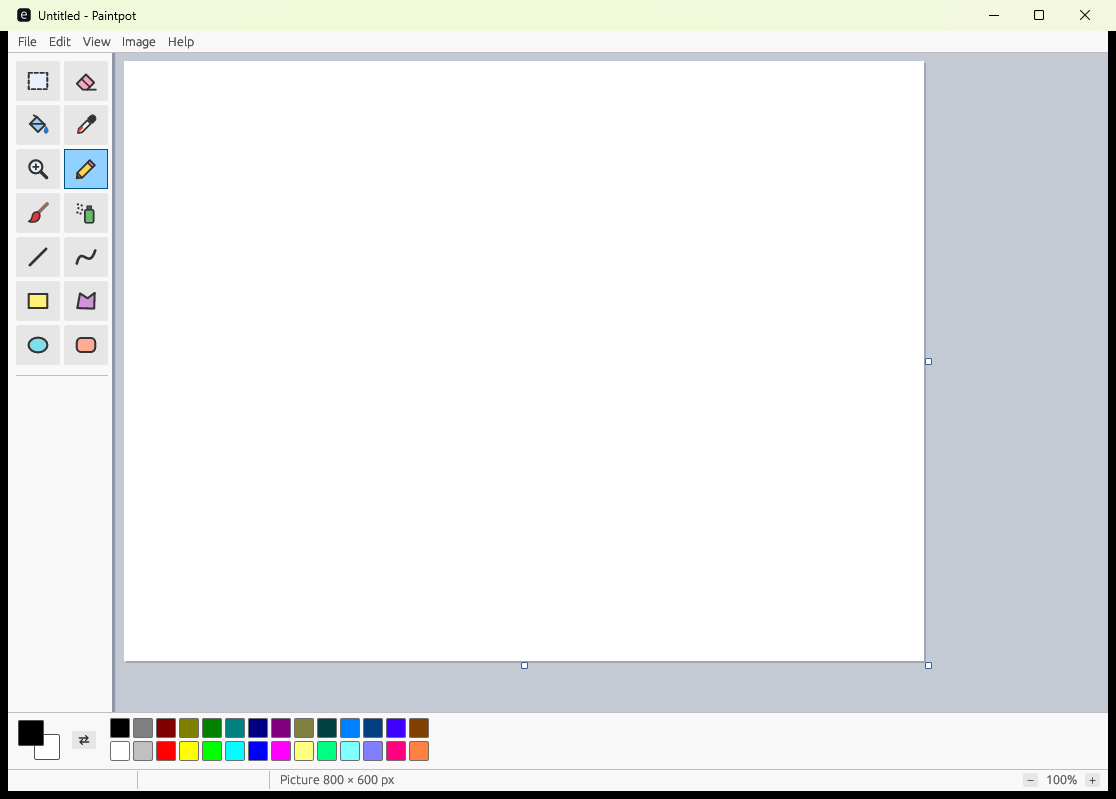
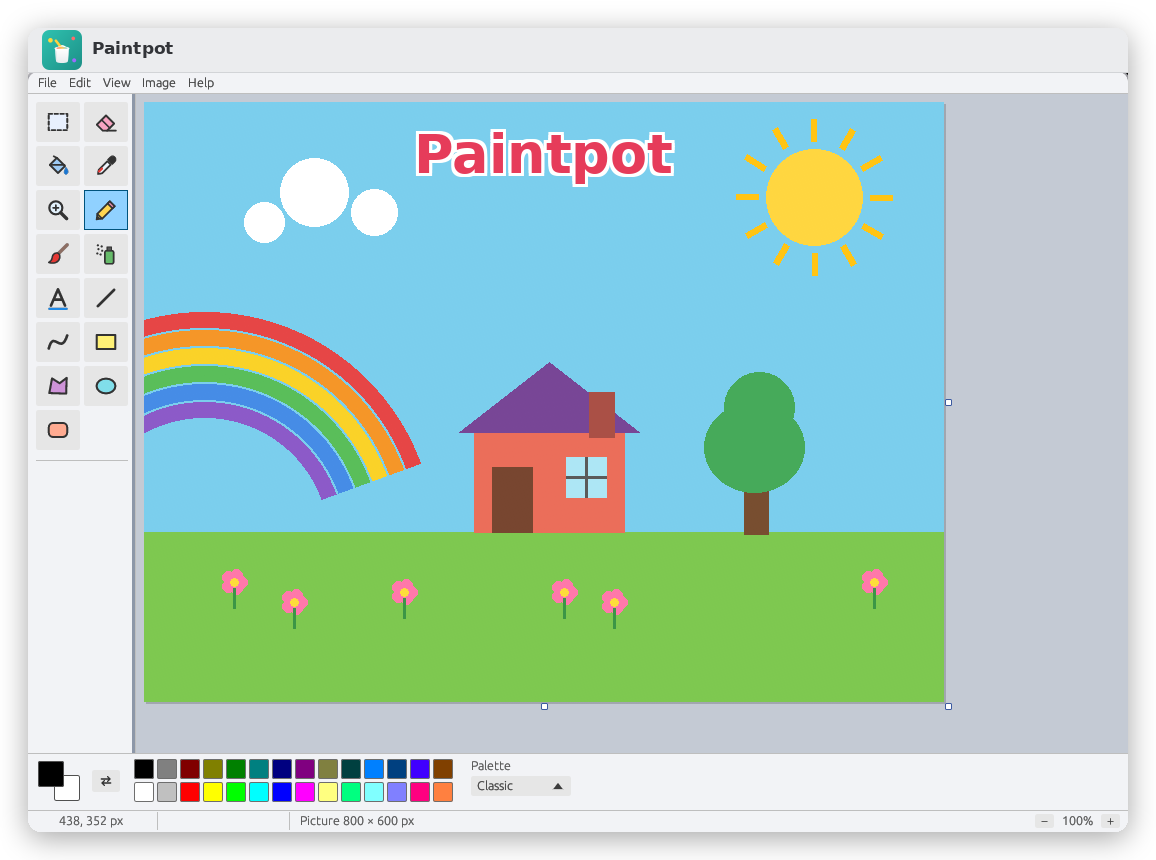
Replace screenshot with a clean, branded capture and embed it in the README
The old screenshot showed a blank canvas with a compositor-drawn fallback
title bar (oversized, with a stray dark border). Captured a fresh screenshot
with window decorations disabled, loaded a sample drawing to showcase, and
composited a minimal branded title bar + rounded corners + soft shadow in
post. Also actually embeds it in README.md, which it wasn't before.

diff --git a/README.md b/README.md
@@ -7,6 +7,8 @@ so the paint bucket always does exactly what a child expects.
 
 *"Paintpot" is a working name; see [Naming](#naming).*
 
+![Paintpot screenshot](screenshots/paintpot.png)
+
 ## Features
 
 - **Tools** (classic toolbox order): Select, Eraser / Color eraser, Fill, Pick color,
